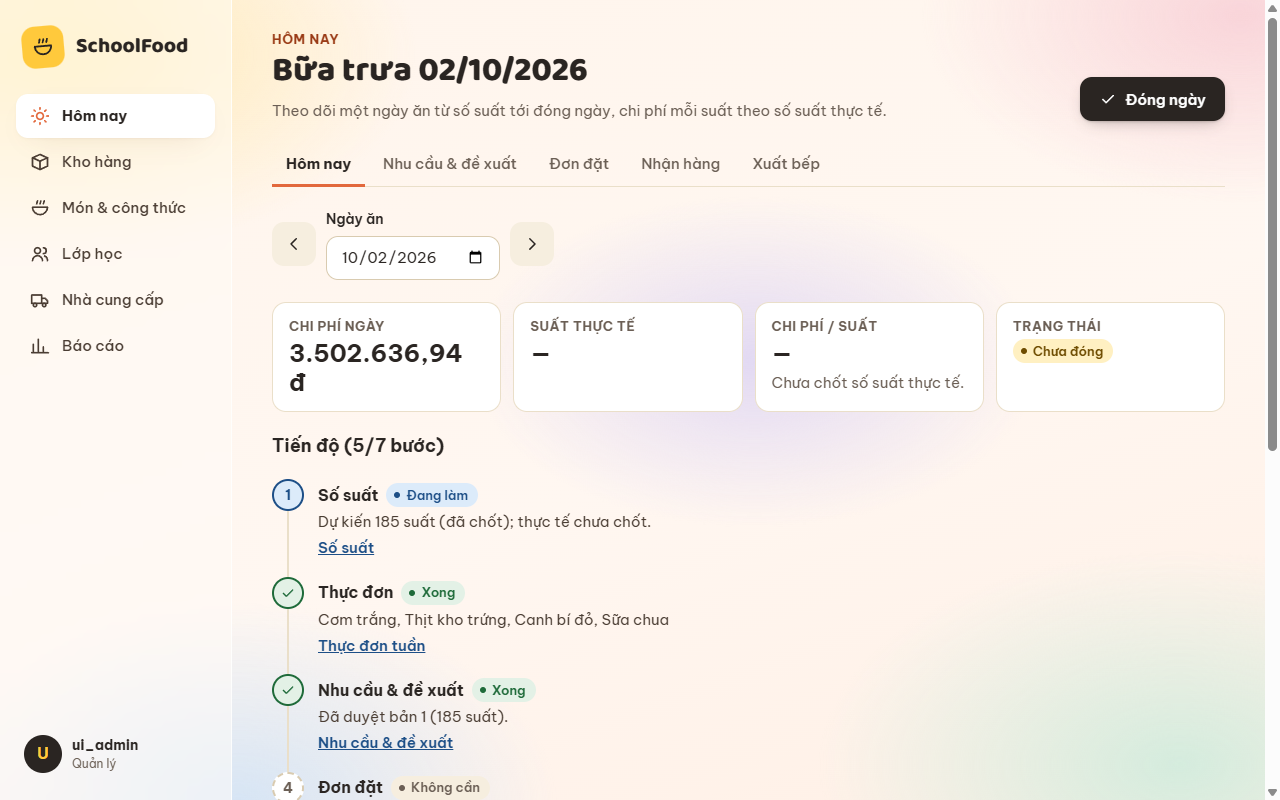
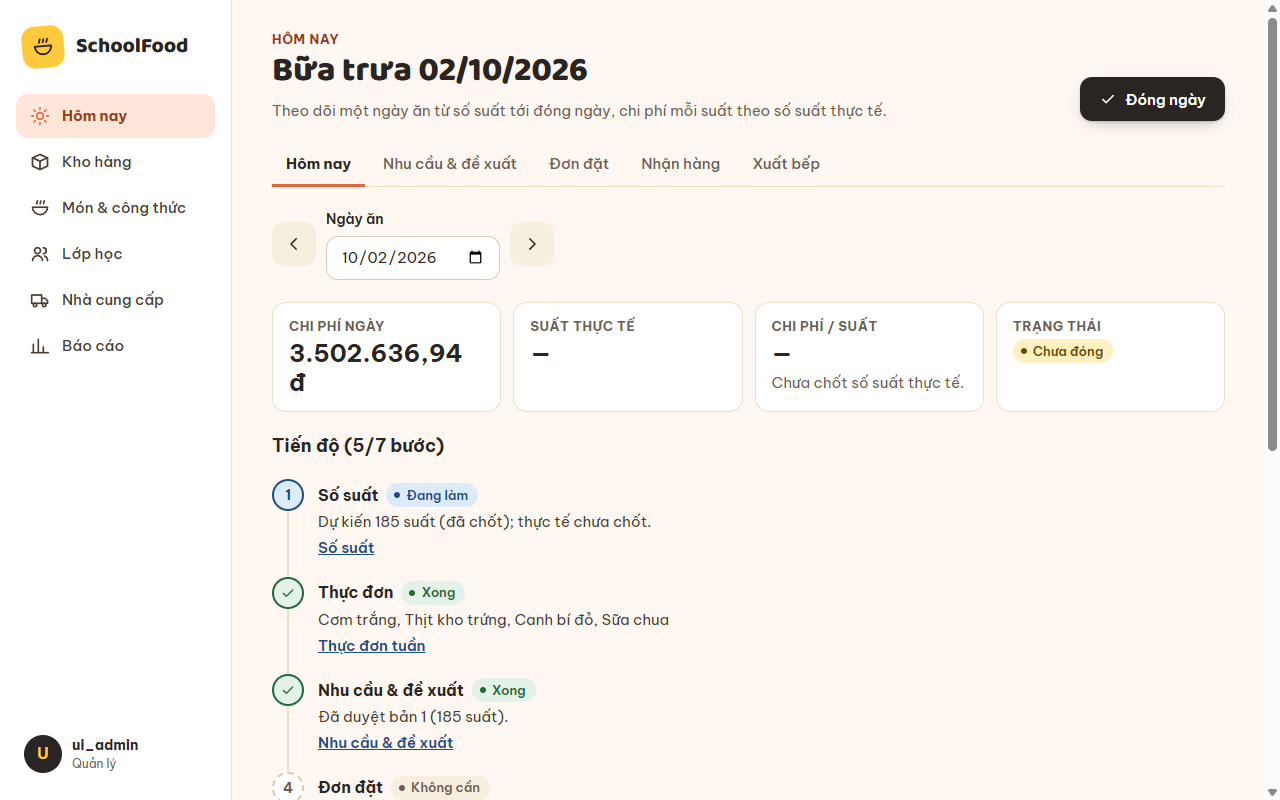
SF78 PR2: khung app màu phẳng, bỏ gradient và kính mờ
Chủ dự án không dùng gradient (02/10): bỏ nền chuyển màu và các mảng pastel mờ; thanh bên, thanh trên, thanh tab
điện thoại nền trắng đặc viền mảnh; mục đang chọn nền đào nhạt, chữ và icon màu nhấn. Giữ hiệu ứng chuyển khu,
icon nghiêng khi rê chuột, menu tài khoản bật nảy. Ảnh SF78_2_* chụp lại.

diff --git a/frontend/src/components/layout/AppShell.module.css b/frontend/src/components/layout/AppShell.module.css
@@ -1,31 +1,9 @@
-/* SF78: nền đào nhạt + vài mảng pastel mờ trôi rất chậm phía sau (CSS thuần, không WebGL). */
+/* SF78: nền đào nhạt màu phẳng (không gradient, theo yêu cầu chủ dự án 02/10). */
 .shell {
   position: relative;
   display: flex;
   min-height: 100vh;
-  background: linear-gradient(160deg, var(--login-glow) 0%, var(--bg) 38%, var(--login-peach-1) 100%);
-  isolation: isolate;
-}
-
-.backdrop {
-  position: fixed;
-  inset: -10%;
-  z-index: -1;
-  pointer-events: none;
-  background:
-    radial-gradient(34% 30% at 12% 14%, var(--login-slab-butter) 0%, transparent 70%),
-    radial-gradient(30% 28% at 90% 10%, var(--login-slab-rose) 0%, transparent 70%),
-    radial-gradient(34% 32% at 86% 88%, var(--login-slab-mint) 0%, transparent 70%),
-    radial-gradient(30% 30% at 24% 92%, var(--login-slab-sky) 0%, transparent 70%),
-    radial-gradient(26% 24% at 58% 46%, var(--login-slab-lilac) 0%, transparent 72%);
-  opacity: .85;
-  animation: drift 48s ease-in-out infinite alternate;
-}
-
-@keyframes drift {
-  to {
-    transform: translate3d(2.5%, -2%, 0) rotate(2deg) scale(1.04);
-  }
+  background: var(--bg);
 }
 
 .skip {
@@ -57,10 +35,8 @@
   width: var(--sidebar-w);
   height: 100vh;
   padding: 26px 16px 20px;
-  border-right: 1px solid var(--glass-edge);
-  background: var(--glass);
-  backdrop-filter: blur(var(--glass-blur)) saturate(1.2);
-  -webkit-backdrop-filter: blur(var(--glass-blur)) saturate(1.2);
+  border-right: 1px solid var(--line-soft);
+  background: var(--surface);
   overflow-y: auto;
 }
 
@@ -134,7 +110,7 @@
 }
 
 .navLink:hover {
-  background: var(--surface-hover);
+  background: var(--accent-soft);
   color: var(--ink);
 }
 
@@ -143,10 +119,9 @@
 }
 
 .navLink[aria-current='page'] {
-  background: var(--surface);
-  color: var(--ink);
+  background: var(--accent-soft);
+  color: var(--accent-ink);
   font-weight: 700;
-  box-shadow: var(--shadow-card);
 }
 
 .navIcon {
@@ -311,7 +286,6 @@
 }
 
 @media (prefers-reduced-motion: reduce) {
-  .backdrop,
   .page {
     animation: none;
   }
@@ -382,10 +356,8 @@
     gap: 12px;
     height: 60px;
     padding: 0 16px;
-    border-bottom: 1px solid var(--glass-edge);
-    background: var(--glass);
-    backdrop-filter: blur(var(--glass-blur)) saturate(1.2);
-    -webkit-backdrop-filter: blur(var(--glass-blur)) saturate(1.2);
+    border-bottom: 1px solid var(--line-soft);
+    background: var(--surface);
   }
 
   .topbar .brandText {
@@ -443,10 +415,8 @@
     grid-auto-columns: minmax(0, 1fr);
     height: var(--tabbar-h);
     padding: 0 4px env(safe-area-inset-bottom);
-    border-top: 1px solid var(--glass-edge);
-    background: var(--glass);
-    backdrop-filter: blur(var(--glass-blur)) saturate(1.2);
-    -webkit-backdrop-filter: blur(var(--glass-blur)) saturate(1.2);
+    border-top: 1px solid var(--line-soft);
+    background: var(--surface);
     box-shadow: var(--shadow-bar);
   }
 

diff --git a/frontend/src/styles/tokens.css b/frontend/src/styles/tokens.css
@@ -97,7 +97,7 @@
   --accent: #E2683C;
   --accent-soft: #FFE6DA;
   --accent-ink: #9A3B16;
-  --glass: rgba(255, 252, 248, .55);
+  --glass: rgba(255, 252, 248, .7);
   --glass-edge: rgba(255, 255, 255, .8);
   --glass-blur: 18px;
   --shadow-card: 0 1px 2px rgba(120, 60, 30, .05), 0 10px 28px -16px rgba(120, 60, 30, .22);

diff --git a/frontend/src/components/layout/AppShell.tsx b/frontend/src/components/layout/AppShell.tsx
@@ -120,7 +120,6 @@ export function AppShell() {
   const section = useLocation().pathname.split('/')[1] ?? '';
   return (
     <div className={styles.shell}>
-      <div className={styles.backdrop} aria-hidden="true" />
       <a className={styles.skip} href="#main">
         Bỏ qua điều hướng
       </a>
